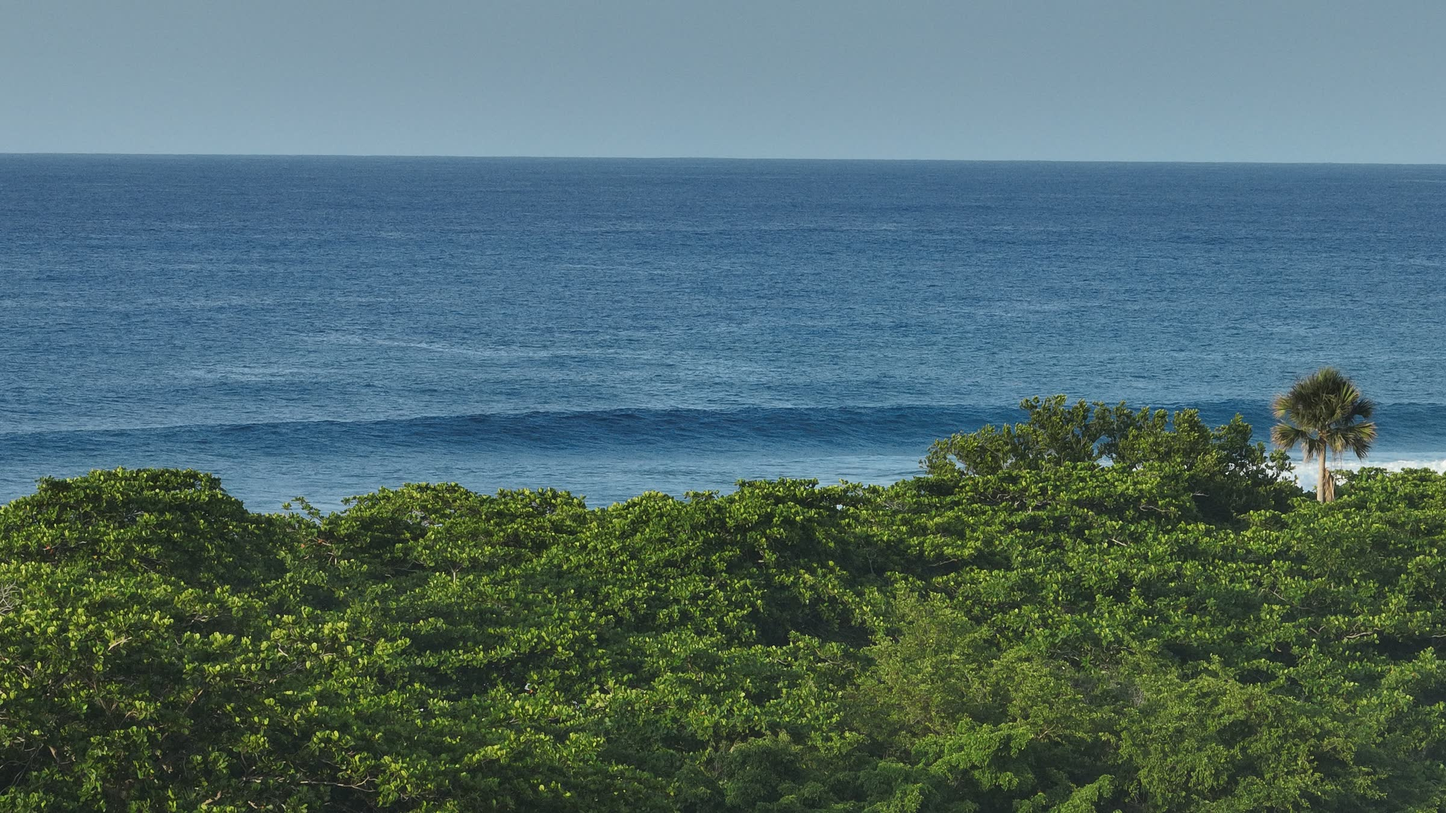
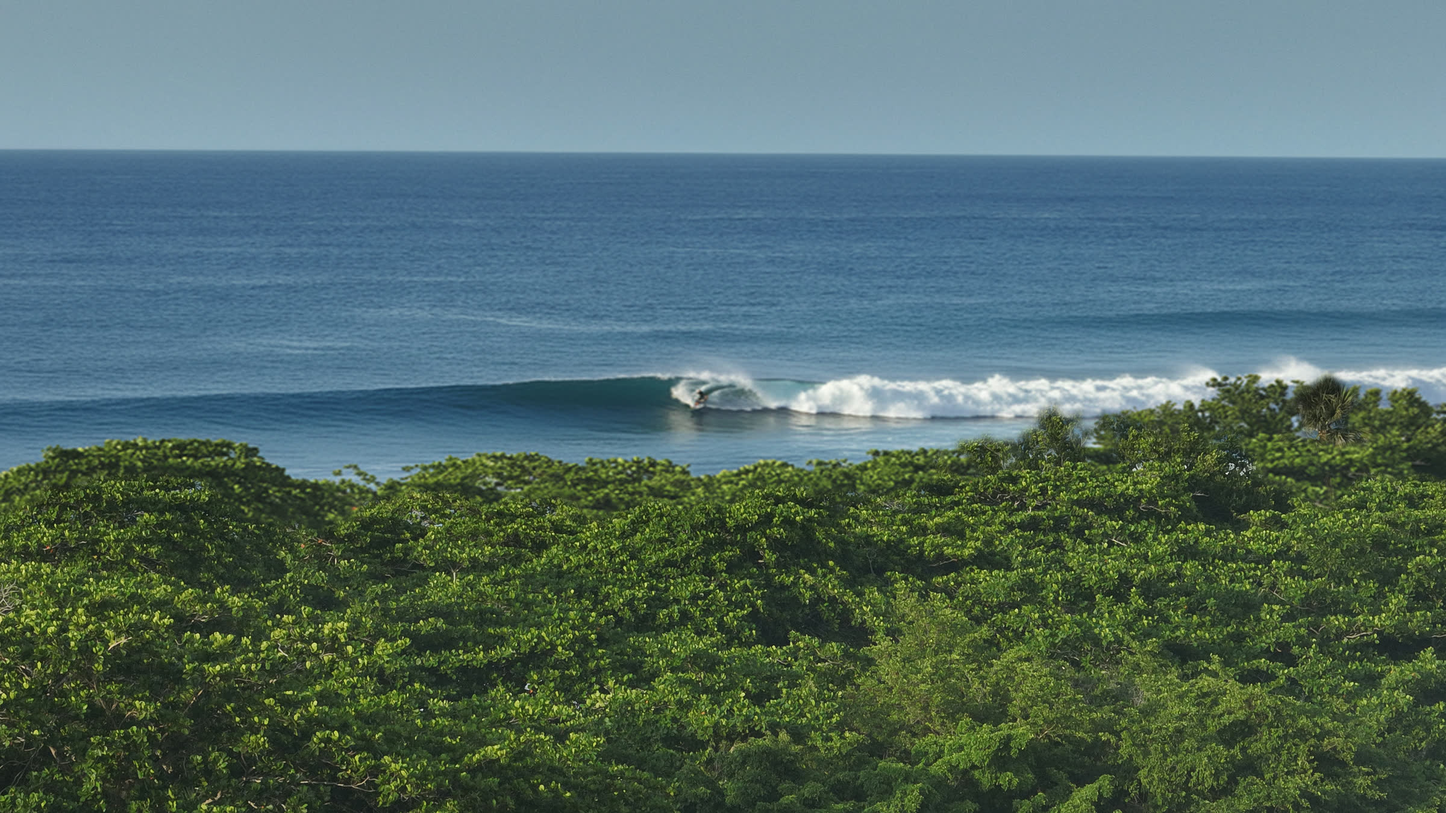
New hero band photo: surfer on the wave in front of the land

Changed region(s): [[0.0, 0.28, 1.0, 0.6533], [0.125, 0.1867, 1.0, 0.2178]]

diff --git a/index.html b/index.html
@@ -1143,7 +1143,7 @@
 </div>
 
 <figure class="wave-band reveal">
-  <img src="assets/hero-wave.jpg" alt="The wave breaking directly in front of the ATABAY land" loading="lazy">
+  <img src="assets/hero-wave.jpg" alt="A surfer riding the wave that breaks directly in front of the ATABAY land" loading="lazy">
   <figcaption><b>This is the wave that breaks in front of the land.</b>
   Not stock footage, not a similar spot down the coast — this one, from the property itself.</figcaption>
 </figure>

diff --git a/de/index.html b/de/index.html
@@ -1144,7 +1144,7 @@
 </div>
 
 <figure class="wave-band reveal">
-  <img src="../assets/hero-wave.jpg" alt="Die Welle, die direkt vor dem ATABAY-Land bricht" loading="lazy">
+  <img src="../assets/hero-wave.jpg" alt="Ein Surfer in der Welle, die direkt vor dem ATABAY-Land bricht" loading="lazy">
   <figcaption><b>Das ist die Welle, die vor dem Land bricht.</b>
   Kein Archivmaterial, kein ähnlicher Spot weiter unten an der Küste — diese hier, vom Grundstück aus.</figcaption>
 </figure>

diff --git a/es/index.html b/es/index.html
@@ -1144,7 +1144,7 @@
 </div>
 
 <figure class="wave-band reveal">
-  <img src="../assets/hero-wave.jpg" alt="La ola que rompe justo frente al terreno de ATABAY" loading="lazy">
+  <img src="../assets/hero-wave.jpg" alt="Un surfista en la ola que rompe justo frente al terreno de ATABAY" loading="lazy">
   <figcaption><b>Esta es la ola que rompe frente al terreno.</b>
   No es material de archivo ni un spot parecido más allá — es esta, vista desde la propiedad.</figcaption>
 </figure>
